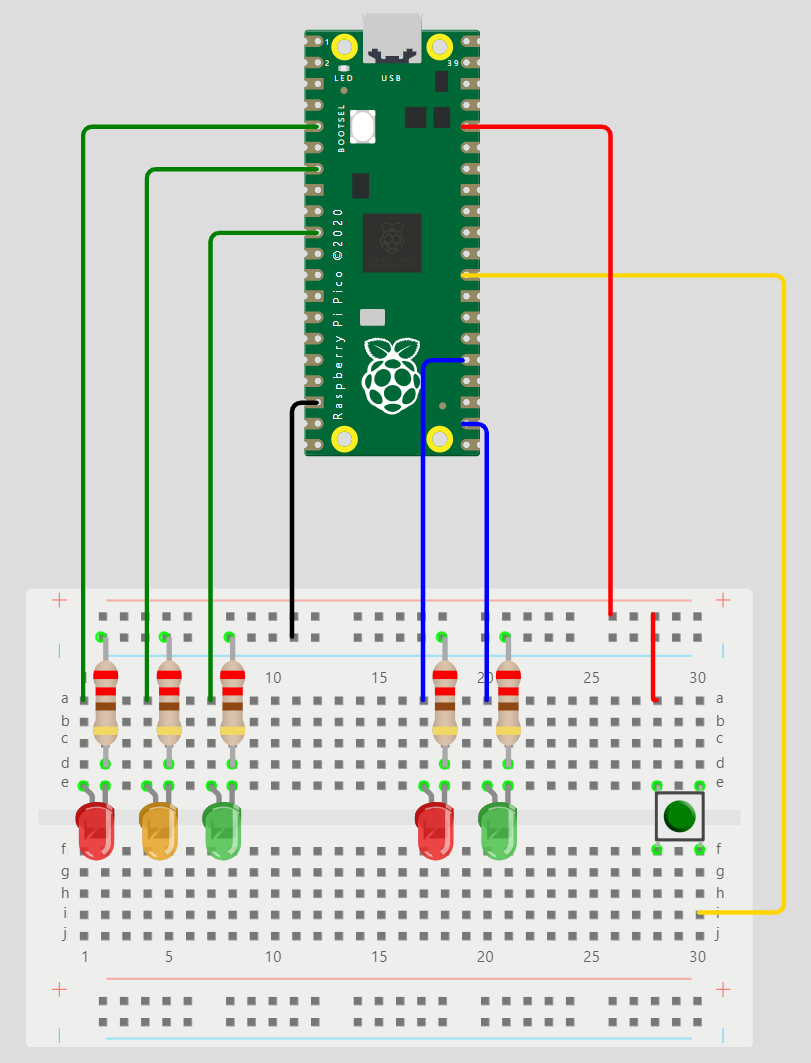
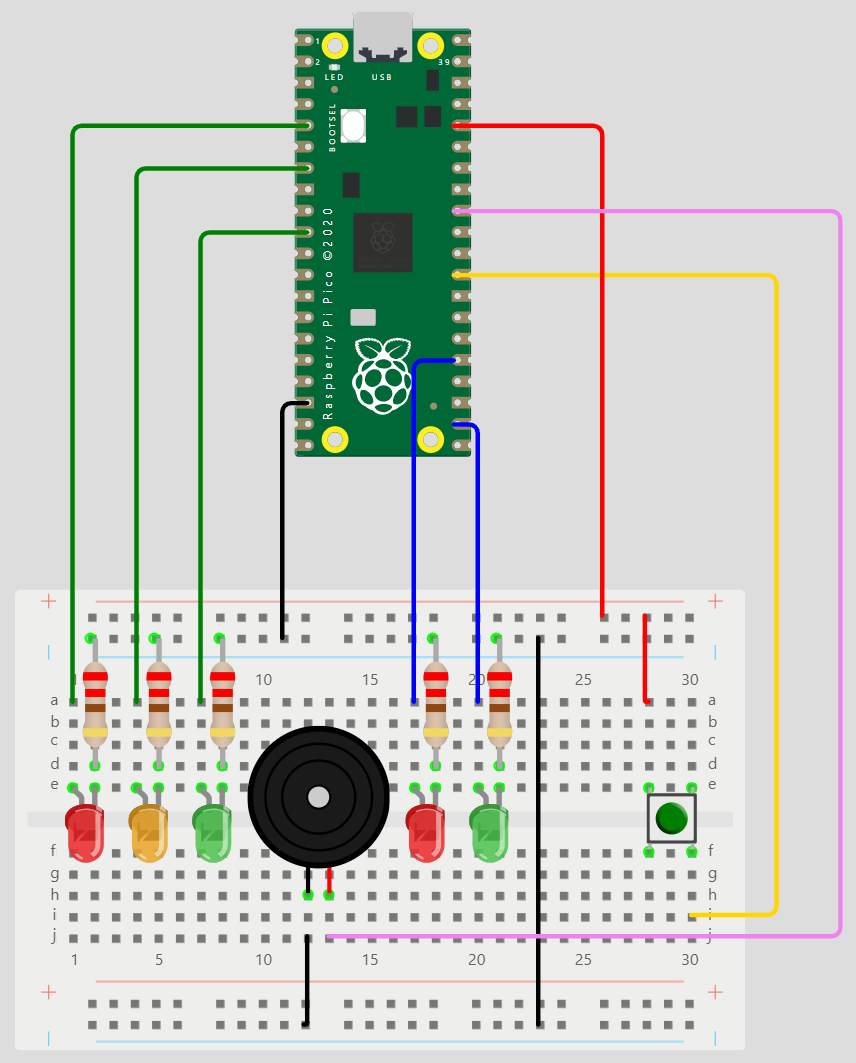
add buzzer and led_light class

Changed region(s): [[0.0617, 0.0, 0.9864, 0.9934]]

diff --git a/project/py_scripts/v05.py b/project/py_scripts/v05.py
@@ -1,61 +1,11 @@
-import utime
-from machine import Pin, PWM
-from servo import Servo
-from machine import RTC
+import v04_Led_Light
+import v05_Pedestrian_Button
 
-
-# create a PWM servo controller (16 - pin Pico)
-servo_pwm = PWM(Pin(16))
-rtc = RTC()
-
-# Set the parameters of the servo pulses, more details in the "Documentation" section
-freq = 50
-min_us = 500
-max_us = 2500
-dead_zone_us = 1500
-
-# create a servo object
-my_servo = Servo(
-    pwm=servo_pwm, min_us=min_us, max_us=max_us, dead_zone_us=dead_zone_us, freq=freq
-)
-
-time_last_change = utime.ticks_ms()
-change_servo = False
-change_tick = 0
-servo_value = 1500
-new_servo_value = 2000
-servo_smooth_time = 750
-
-
-def smooth_change():
-    global servo_value
-    global new_servo_value
-    global change_servo
-    global change_state
-    global change_tick
-    global servo_smooth_time
-
-    if change_tick == 0:
-        if servo_value > new_servo_value:
-            servo_value -= 1
-            change_tick = 1
-        elif servo_value < new_servo_value:
-            servo_value += 1
-            change_tick = 1
-        elif servo_value == new_servo_value:
-            change_state = False
-    elif (
-        change_tick == 1
-        and utime.ticks_diff(utime.ticks_ms(), time_last_change) >= servo_smooth_time
-    ):
-        change_tick = 0
-    print(f"Servo value is now: {servo_value}")  # debugging only then remove
-
+# Abstraction as simple interface hides (farcarde design pattern)
+# the complexity of the implementation of the class 'Led_Light' in the module 'v04_Led_Light'
 
 while True:
-    my_servo.set_duty(servo_value)
-    if servo_value != new_servo_value:
-        if not change_servo:
-            time_last_change = utime.ticks_ms()
-            change_servo = True
-        smooth_change()
+    red_light = v04_Led_Light.Led_Light(25)
+    ped_button = v05_Pedestrian_Button.Button()
+    red_light.state = 
+

diff --git a/project/py_scripts/v02.py b/project/py_scripts/v02.py
@@ -1,38 +1,31 @@
-import time
-from servo import Servo
-from machine import Pin, PWM
+from machine import Pin
+from machine import PWM
 
-servo_pwm = PWM(Pin(16))
+# Pin Documentation: https://docs.micropython.org/en/latest/library/machine.Pin.html
+# PWM Documentation: https://docs.micropython.org/en/latest/library/machine.PWM.html
 
-# Set the parameters of the servo pulses, more details in the "Documentation" section
-freq = 50
-min_us = 500
-max_us = 2500
-dead_zone_us = 1500
+led_car_red = Pin(3, Pin.OUT)
+led_car_orange = Pin(5, Pin.OUT)
+led_car_green = Pin(7, Pin.OUT)
 
-# create a servo object
-my_servo = Servo(
-    pwm=servo_pwm, min_us=min_us, max_us=max_us, dead_zone_us=dead_zone_us, freq=freq
-)
+led_pedestrian_red = Pin(19, Pin.OUT)
+led_pedestrian_green = Pin(17, Pin.OUT)
+
+pedestrian_button = Pin(22, Pin.IN, Pin.PULL_DOWN)
+
+buzzer = machine.PWM(27)
 
 
 while True:
-    # Set the Servo to the mid-point (90 is half way between zero and 180 degrees)
-    my_servo.set_angle(0)
-    time.sleep(5)  # Wait for 1 second
-    print("Servo at 0 degrees")
 
-    # Set the Servo to the left most position
-    my_servo.set_angle(90)
-    time.sleep(2)  # Wait for 1 second
-    print("Servo Stop")
+    buzzer.freq(1000)
+    # buzzer.duty(512)
 
-    # Set the Servo to the right most position
-    my_servo.set_angle(180)
-    time.sleep(5)  # Wait for 1 second
-    print("Servo at 180 degrees")
+    led_car_red.high()
+    led_car_orange.high()
+    led_car_green.high()
 
-    # Set the Servo to the left most position
-    my_servo.set_angle(90)
-    time.sleep(2)  # Wait for 1 second
-    print("Servo Stop")
+    led_pedestrian_red.high()
+    led_pedestrian_green.high()
+
+    print(pedestrian_button.value())

diff --git a/project/py_scripts/v04.py b/project/py_scripts/v04.py
@@ -1,52 +1,9 @@
-from machine import Pin, PWM
-from servo import Servo
-from machine import RTC
+import v04_Led_Light
 
-
-# create a PWM servo controller (16 - pin Pico)
-servo_pwm = PWM(Pin(16))
-rtc = RTC()
-
-# Set the parameters of the servo pulses, more details in the "Documentation" section
-freq = 50
-min_us = 500
-max_us = 2500
-dead_zone_us = 1500
-
-# create a servo object
-my_servo = Servo(
-    pwm=servo_pwm, min_us=min_us, max_us=max_us, dead_zone_us=dead_zone_us, freq=freq
-)
-
-time_last_change = rtc.datetime()
-machine_state = 1
-state_1_time = 3
-state_1_state = 500
-state_2_time = 6
-state_2_state = 1000
-state_3_time = 9
-state_3_state = 1500
-state_4_time = 12
-state_4_state = 2000
-
+# Abstraction as simple interface hides (facade design pattern)
+# the complexity of the implementation of the class 'Led_Light' in the module 'v04_Led_Light'
 
 while True:
-    time_now = rtc.datetime()
-
-    if machine_state == 1:
-        my_servo.set_duty(state_1_state)
-        if time_now[6] - time_last_change[6] >= state_1_time:
-            machine_state = 2
-    elif machine_state == 2:
-        my_servo.set_duty(state_2_state)
-        if time_now[6] - time_last_change[6] >= state_2_time:
-            machine_state = 3
-    elif machine_state == 3:
-        my_servo.set_duty(state_3_state)
-        if time_now[6] - time_last_change[6] >= state_3_time:
-            machine_state = 4
-    elif machine_state == 4:
-        my_servo.set_duty(state_4_state)
-        if time_now[6] - time_last_change[6] >= state_4_time:
-            time_last_change = rtc.datetime()
-            machine_state = 1
+    red_light = v04_Led_Light.Led_Light(25)
+    red_light.on()
+    print(red_light.led_light_state)

diff --git a/project/main.py b/project/main.py
@@ -4,7 +4,7 @@ from machine import Pin
 
 
 # File name of the script to import
-file_name = "v01"
+file_name = "v04"
 
 # Add the path to the sys.path
 sys.path.append("/py_scripts")
@@ -71,16 +71,6 @@ except ValueError as e:
     print(
         "Raised when a built-in operation or function receives an argument that has the right type but an inappropriate value."
     )
-    print("--- Traceback ---")
-    sys.print_exception(e)
-except FileExistsError as e:
-    print("FILE EXISTS ERROR")
-    print("Raised when trying to create a file or directory which already exists.")
-    print("--- Traceback ---")
-    sys.print_exception(e)
-except FileNotFoundError as e:
-    print("FILE NOT FOUND ERROR")
-    print("Raised when a file or directory is requested but doesn`t exist.")
     print("--- Traceback ---")
     sys.print_exception(e)
 except OSError as e:

diff --git a/project/py_scripts/v05_Pedestrian_Button.py b/project/py_scripts/v05_Pedestrian_Button.py
@@ -1,0 +1,14 @@
+from machine import Pin
+
+
+class Pedestrian_Button(Pin):
+    # child class inherits the parent 'Pin' class
+    def __init__(self, pin, pull_up=True):
+        super().__init__(pin)
+        self.button_state
+
+    @property
+    def button_state(self):
+        # method overloading polymorphism in this class
+        print("Button is pressed" if self.value() else "Button is not pressed")
+        return self.value()

diff --git a/project/py_scripts/v04_Led_Light.py b/project/py_scripts/v04_Led_Light.py
@@ -38,9 +38,3 @@ class Led_Light(Pin):
                 self.on()
             else:
                 self.off()
-
-
-while True:
-    red_light = Led_Light(25)
-    red_light.on()
-    print(red_light.led_light_state)

diff --git a/README.md b/README.md
@@ -8,52 +8,65 @@ Students will be recreating a model of the pedestrian crossing on Unwins Bridge 
 
 From the above real world control system we will model:
 
-- The two traffic lights which are synchronised and loop.
-- The two pedestrian warning lights which are also synchronised.
-- The two pedestrian buttons which break the traffic lights loop.
-- The control system that manages the state of the components (large grey box).
+- Overloading and overriding polymorphism
+- Inheritance, multilevel inheritance and multi class inheritance
+- Abstraction
+- Decomposition and composition
+- Generalisation
+- Encapsulation
+- Object instantiation, objects as instance variables
 
 ## Wire your system
 
 ![A prototype of the model](/images/prototype_model.png "Use the below components to wire this model.")
 
-Components
+### Components
 
 - Breadboard
 - Momentary switch
 - 5x LED
+- 1x Piezo buzzer
 - 5x 220Ω resistors
 - Jumper leads
 - Pi Pico
+
+### Pin allocation
+
+| Pin  |                      |
+| ---- | -------------------- |
+| GP3  | Red LED              |
+| GP4  | Keyboard Interrupt   |
+| GP5  | Amber LED            |
+| GP7  | Red LED              |
+| GP17 | Flashing Green LED   |
+| GP19 | Flashing Red LED     |
+| GP22 | Button signal        |
+| GP27 | Piezo Buzzer         |
+| GND  | Circuit Ground       |
+| 3V3  | Button logic voltage |
 
 ## UML Diagram
 
 ```mermaid
 classDiagram
-    PIN <|-- StaticLight : Inheritance
-    PWM <|-- FlashingLight : Inheritance
-    PIN <|-- PedestrianButton : Inheritance
-    StaticLight --> PedestrianCrossing : Association
-    FlashingLight --> PedestrianCrossing : Association
-    Button --> PedestrianCrossing : Association
-    class PWM{
-        int Pin
-        int freq
-        int duty_u16=8192
-        PWM.freq(value)
-    }
+    PIN <|-- Button : Inheritance
+    PIN <|-- Led_Light : Inheritance
+    PWM <|-- Buzzer : Inheritance
+    Led_Light <|-- Flashing_Light : Inheritance
+    Buzzer <|-- Flashing_Light : Inheritance
+    Button --> Pedestrian_Crossing : Association
+    Led_Light --> Pedestrian_Crossing : Association
+    Flashing_Light --> Pedestrian_Crossing : Association
     class PIN{
-        obj PWM
-        set_duty(duty)
-        get_duty()
+
     }
-    class StaticLight{
+    class Led_Light{
         obj Servo
         get_pos()
         set_rot_cw(count)
         set_rot_ccw(count)
     }
-    class FlashingLight{
+    class Flashing_Light{
         obj Servo
         int start_angle
         int min_set_angle
@@ -70,7 +83,7 @@ classDiagram
         set_closed()
         get_state()
     }
-    class PedestrianCrossing{
+    class Pedestrian_Crossing{
         obj Claw
         obj Base
         obj Elbow
@@ -81,13 +94,17 @@ classDiagram
 ```
 
 > [!Note]
-> Inheritance and association labels are note required in a UML diagram but have been added for ease of reading.
+> Inheritance and association labels are note required in a UML diagram but have been added for understanding.
 
 ## Versions
 
-| Version | Notes                                  |
-| ------- | -------------------------------------- |
-| V01.py  | Test wiring and use basic methods from |
+| Version | Notes                                                                                                                     |
+| ------- | ------------------------------------------------------------------------------------------------------------------------- |
+| v01.py  | Basic "Blink" Program (the Hello World of mechatronics).                                                                  |
+| v02.py  | Test wiring and use basic methods from parent `Pin` class.                                                                |
+| v03.py  | Implement a child class of MicroPython `Pin` class for the traffic lights, demonstrating Inheritance and Polymorphism.    |
+| v04.py  | Move the `Led_Light` class to a separate file, demonstrating abstraction.                                                 |
+| v05.py  | Write a `Button` class and test it by instantiating it and controlling the `red_light` instance of the `Led_Light` class. |
 
 <p xmlns:cc="http://creativecommons.org/ns#" xmlns:dct="http://purl.org/dc/terms/"><a property="dct:title" rel="cc:attributionURL" href="https://github.com/TempeHS/TempeHS_PI_Pico_Boilerplate">TempeHS Pi Pico Boilerplate
 </a> by <a rel="cc:attributionURL dct:creator" property="cc:attributionName" href="https://github.com/benpaddlejones">Ben Jones</a> is licensed under <a href="https://creativecommons.org/licenses/by-nc-sa/4.0/?ref=chooser-v1" target="_blank" rel="license noopener noreferrer" style="display:inline-block;">Creative Commons Attribution-NonCommercial-ShareAlike 4.0 International<img style="height:22px!important;margin-left:3px;vertical-align:text-bottom;" src="https://mirrors.creativecommons.org/presskit/icons/cc.svg?ref=chooser-v1" alt=""><img style="height:22px!important;margin-left:3px;vertical-align:text-bottom;" src="https://mirrors.creativecommons.org/presskit/icons/by.svg?ref=chooser-v1" alt=""><img style="height:22px!important;margin-left:3px;vertical-align:text-bottom;" src="https://mirrors.creativecommons.org/presskit/icons/nc.svg?ref=chooser-v1" alt=""><img style="height:22px!important;margin-left:3px;vertical-align:text-bottom;" src="https://mirrors.creativecommons.org/presskit/icons/sa.svg?ref=chooser-v1" alt=""></a></p>
